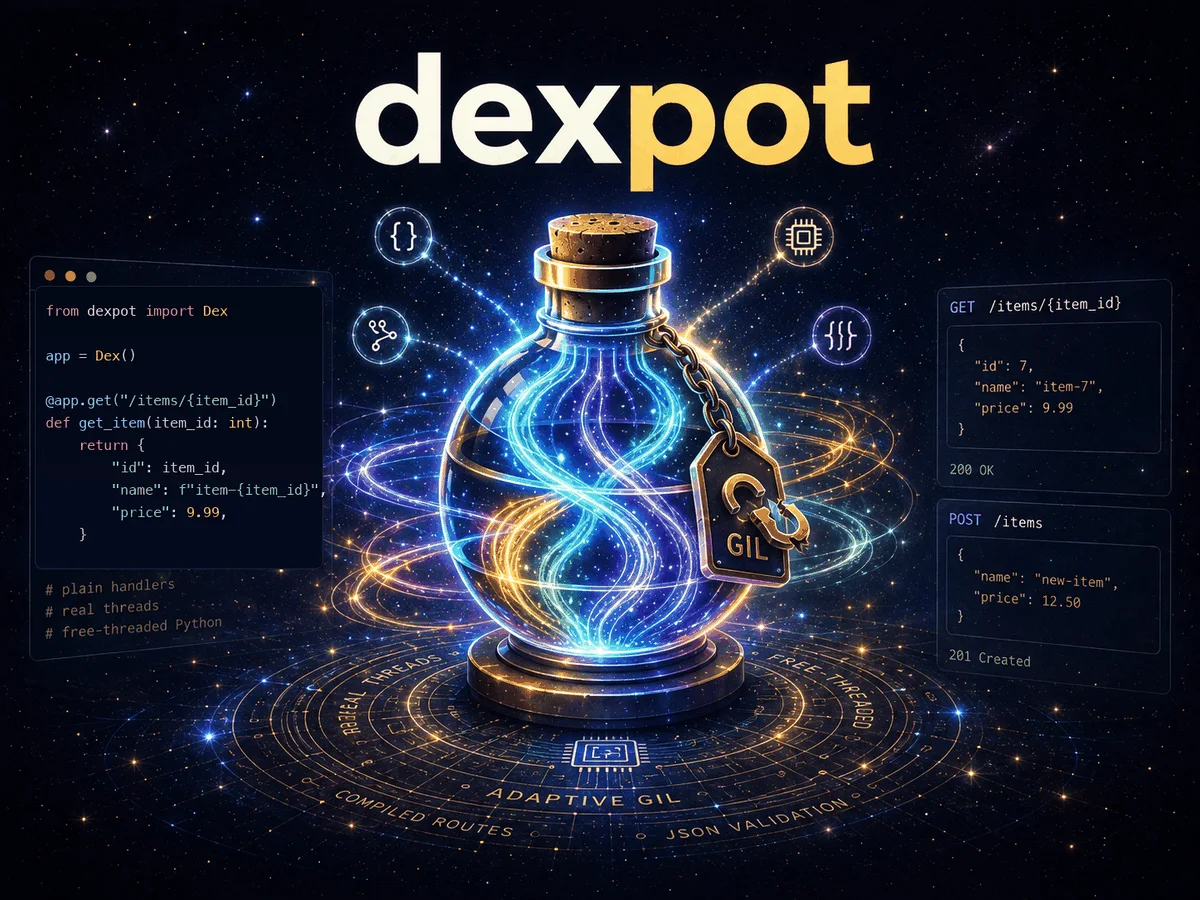
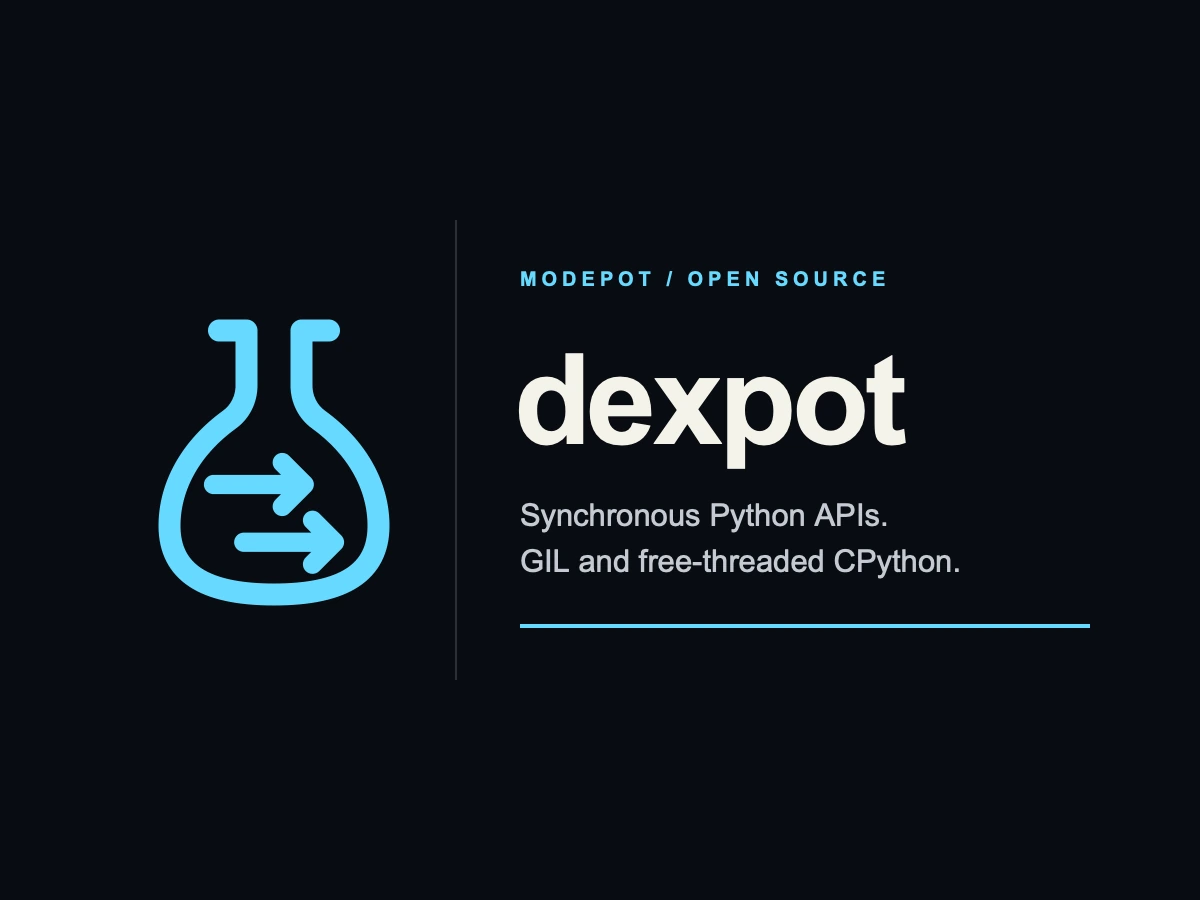
docs: simplify Dexpot brand artwork (#74)
* [verified] docs: simplify Dexpot brand artwork

* docs: add branding changelog fragment

diff --git a/changelog.d/+minimal-brand-lockup.changed.md b/changelog.d/+minimal-brand-lockup.changed.md
@@ -1,0 +1,1 @@
+Replaced the crowded Dexpot hero and social artwork with a minimal lockup built from the existing compact mark.
